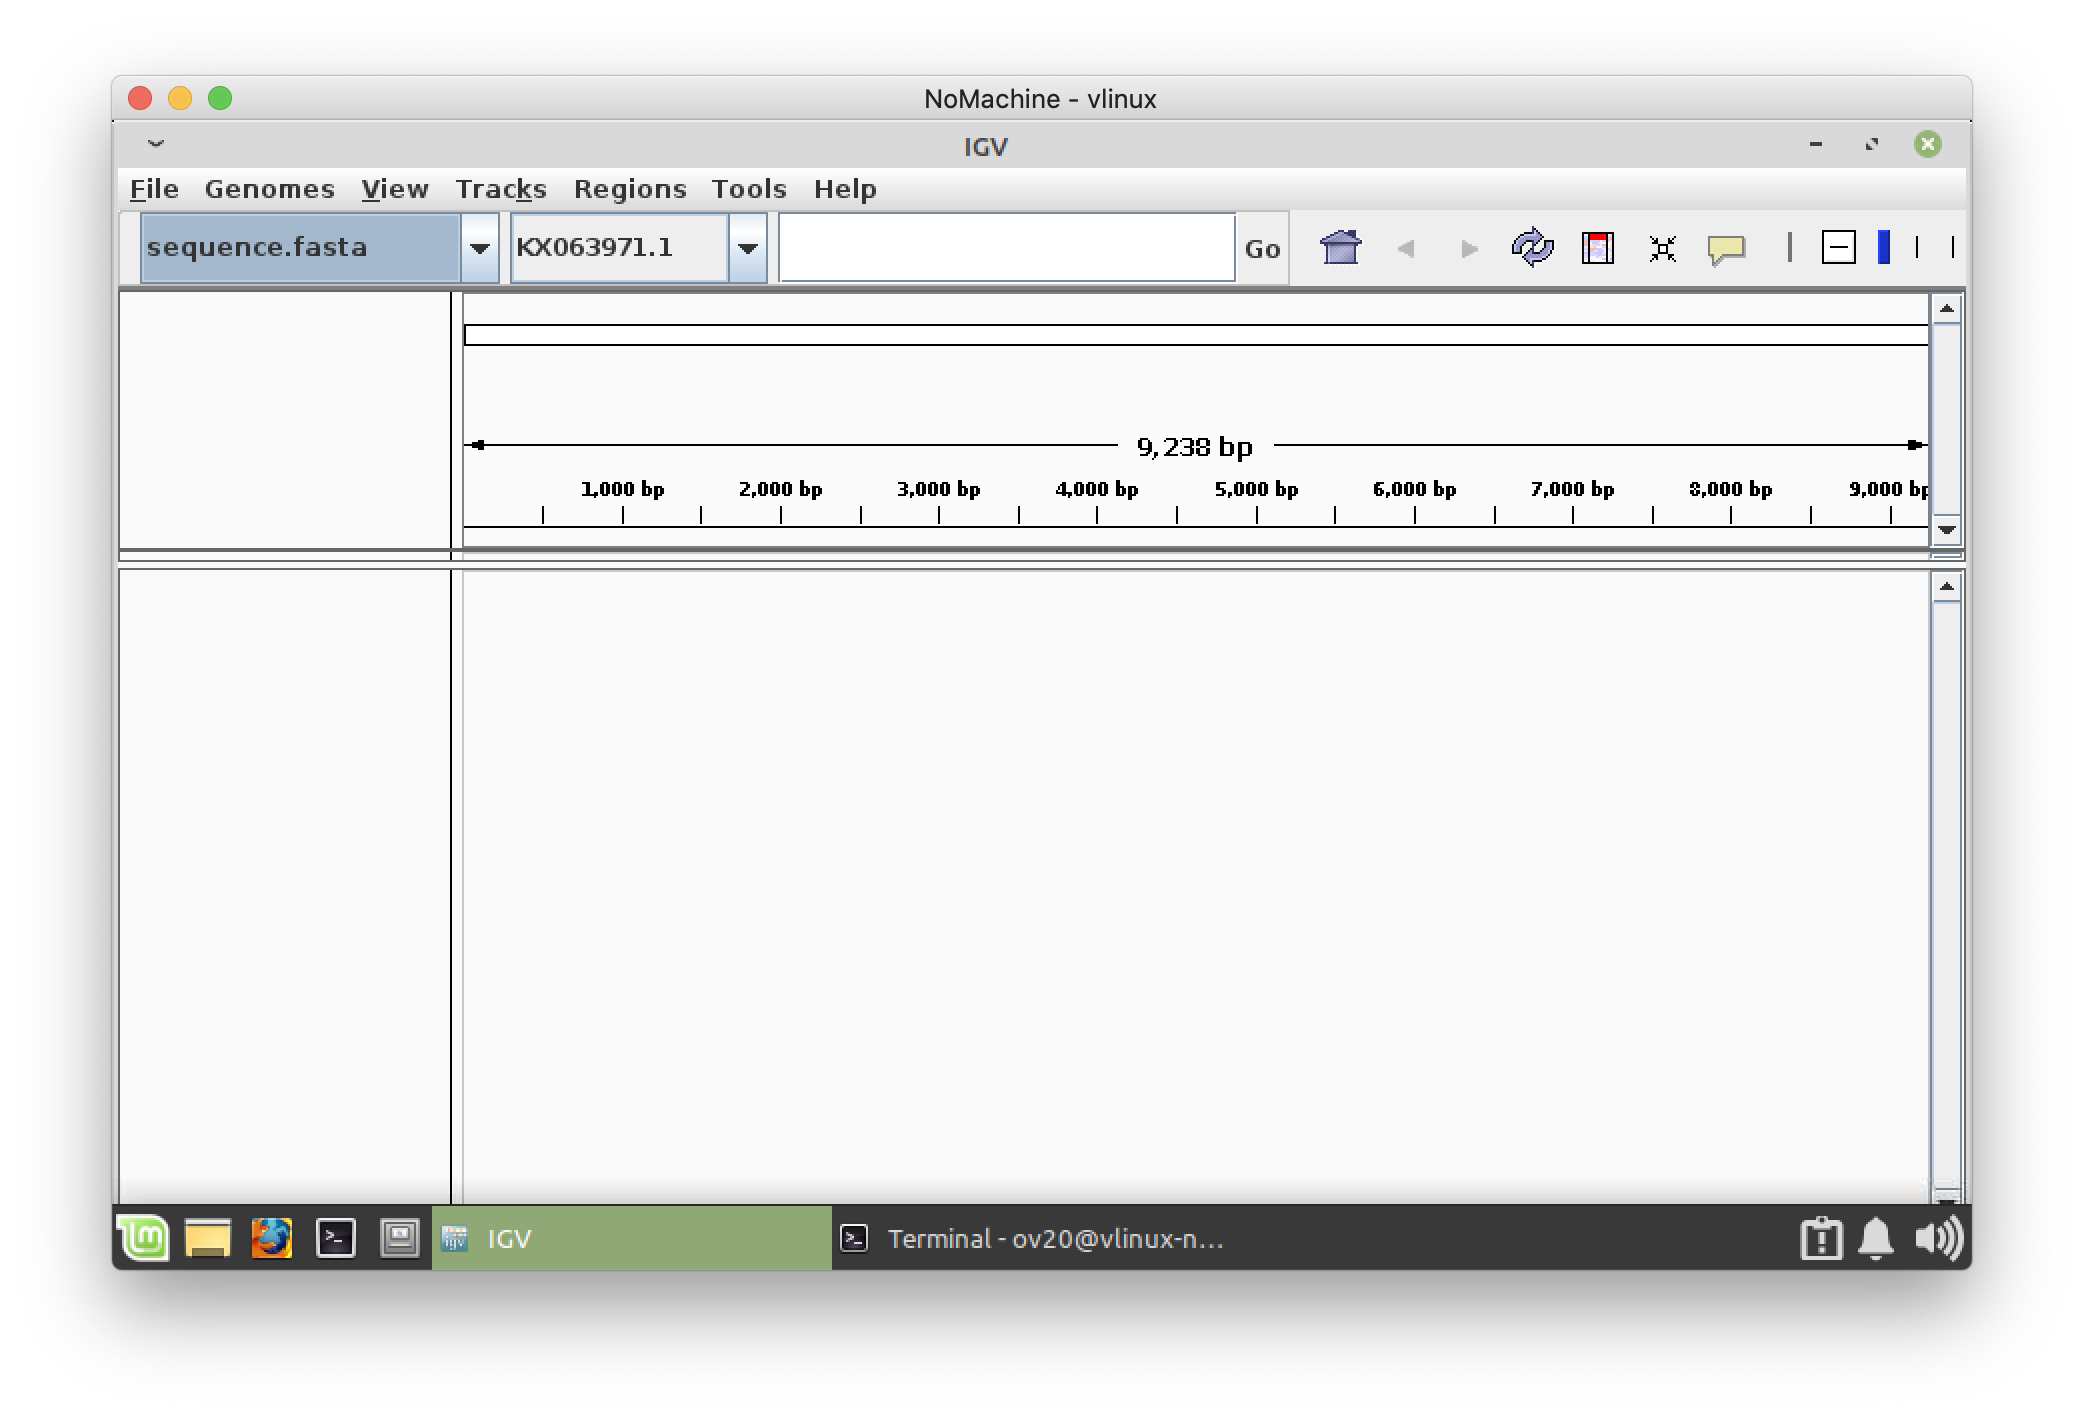
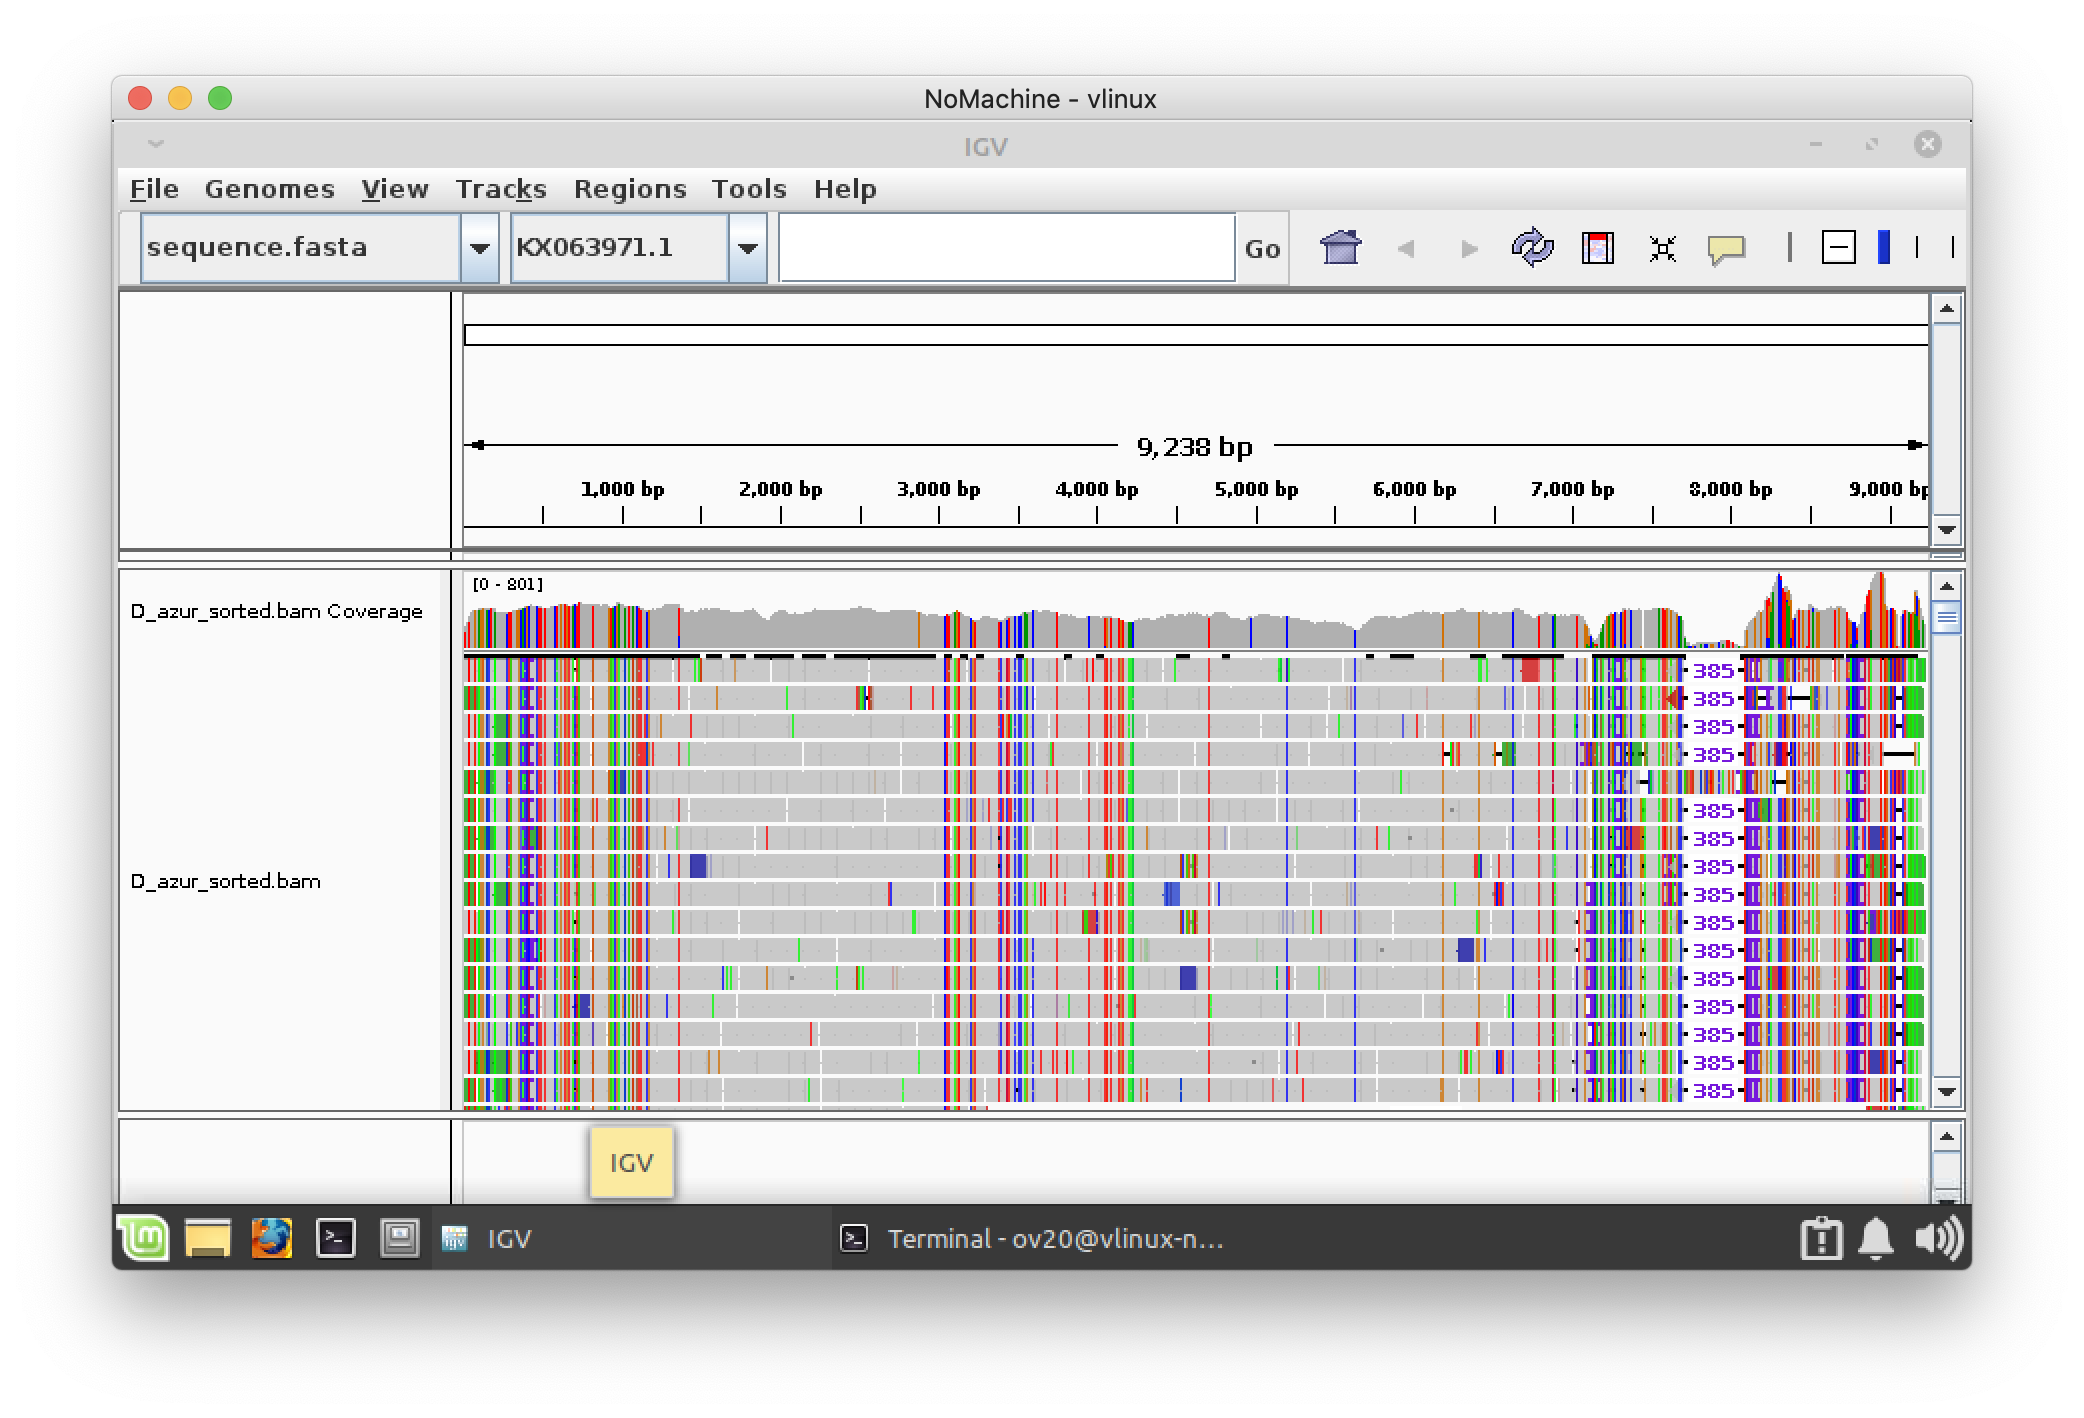
edited W3

diff --git a/week_03/README.md b/week_03/README.md
@@ -5,9 +5,9 @@
 To start this tutorial you need to be logged in the Linux virtual machine
 [vlinux.humboldt.edu](https://vlinux.humboldt.edu/)
 
-Once logged in the Linux machine, look for the Terminal, it is an icon that contains the characters '>\_'
+Once logged in the Linux machine, look for the Terminal, it is an icon that contains the characters `>\_`
 
-You can also write 'terminal' in the search bar of the main manu located in the left bottom of the operating system.
+You can also write `terminal` in the search bar of the main manu located in the left bottom of the operating system.
 
 ## Mapping reads to a reference
 
@@ -25,7 +25,7 @@ cd week_03
 wget https://github.com/oscarvargash/biol_550_2022/raw/main/week_03/files/files_w3.zip
 ```
 
-Let's unzip the data and remove unnecessary files 
+Let's unzip the data 
 
 ```
 unzip files_w3.zip
@@ -59,15 +59,15 @@ Click on the first result. This page shows the sequence in GenBank format. A use
 3. Select the `fasta` format
 4. Click on `create file`
 5. Select `save file`
-6. move the file to `week_03` from `Download`
+6. move the file to `week_03` from `Downloads`
 
 
-How can move `sequence.fasta` into `week_03` from `Downloads` in the terminal?
+How can we move `sequence.fasta` into `week_03` from `Downloads` in the terminal?
 
 <details>
   <summary>Click to see an answer!</summary>
   
-In the terminal, if you located in `week_03` you can simply type:
+In the terminal, while located in `week_03` you can type:
 
 ```
 mv ~/Downloads/sequence.fasta .
@@ -82,18 +82,18 @@ mv ~/Downloads/sequence.fasta .
 > Add the yellow flag to the right corner of your laptop ![](img/yellow.jpeg)
 
 
-First we need to create a reference. This steps creates a database for bbmap of the reference.
+First we need to create a reference. This step creates a database for bbmap of the reference.
 
 ```
 bbmap.sh ref=sequence.fasta
 ```
 
-Now we can do the mapping, note that our imput is the two read files and our output is a `*.sam` file. This command also creates a script than later creates a `*.bam` file which, we will use to vizulize the mapping
+Now we can do the mapping, note that our input is the two read files and our output is a `*.sam` file. This command also creates a script than later creates a `*.bam` file which, we will use to vizulize the mapping
 
 ```
 bbwrap.sh in1=Diplostephium_azureum_R1_nrmap.fastq.gz in2=Diplostephium_azureum_R2_nrmap.fastq.gz outm=D_azur.sam append ref=sequence.fasta nodisk bamscript=bs.sh
 
-ls
+ls 
 ```
 
 Now let's create the bam file:
@@ -106,7 +106,7 @@ Finally we create the consesus using a python2 script
 
 ```
 python2 sam2consensus.py -i D_azur.sam
-cat 
+cat KX063971.1__D_azur.fasta
 ```
 
 > Change your flag to green if you are good to continue ![](img/green.jpeg)
@@ -152,6 +152,5 @@ Navigate the mapping in IGV and answer the following questions:
 
 1. Do the reads match exactly the reference?
 2. Identify at least two problematic regions, indicate their coordinates (in base pairs) and why you think these are problematic.
-3. (optional) Map the reads the consensus sequences, are those problems solved?
-
+3. (optional) Map the reads to the consensus sequence `KX063971.1__D_azur.fasta`, are those problems solved?
 
